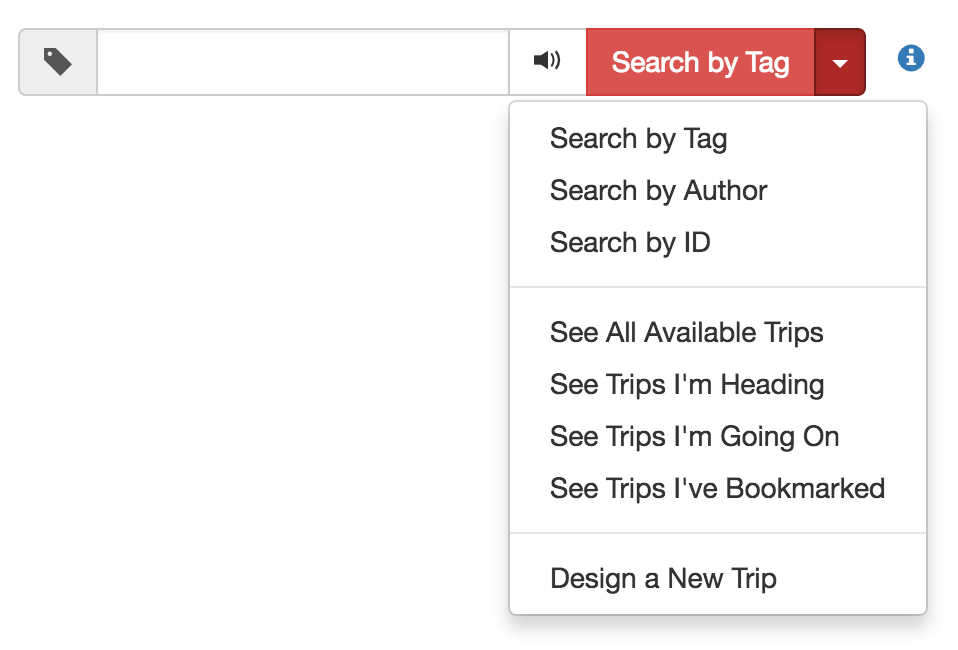
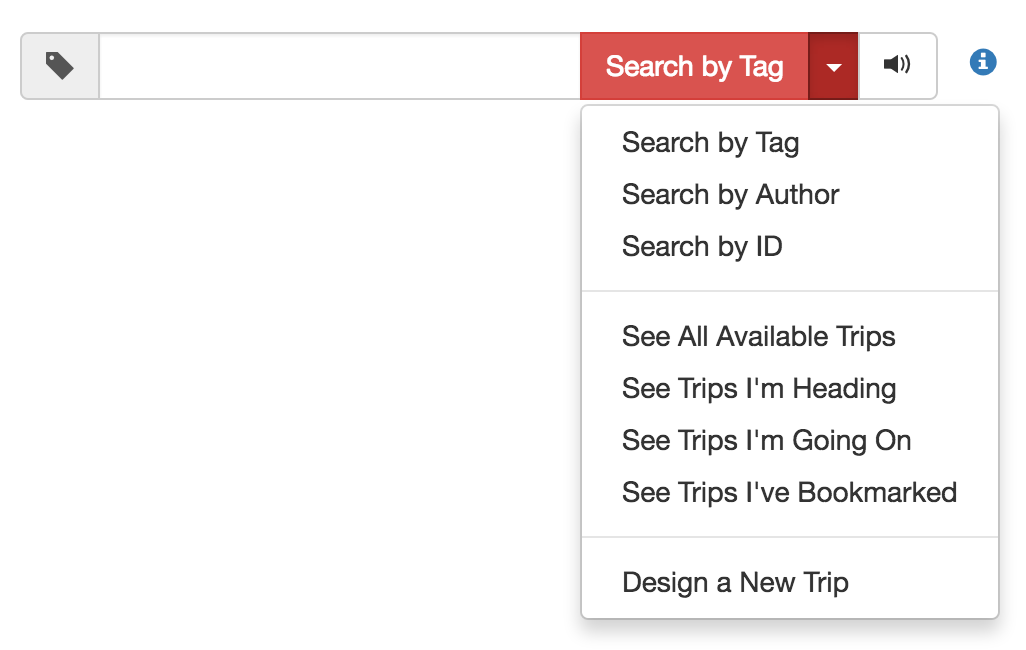
minor change

Changed region(s): [[0.0303, 0.0308, 0.9687, 0.9846], [0.9384, 0.0615, 0.9687, 0.1231]]

diff --git a/pages/groupCampSearch/client/groupCampSearch.html b/pages/groupCampSearch/client/groupCampSearch.html
@@ -24,7 +24,7 @@
           </button>
           <div class="input-group">
                <div class="input-group-addon"><span class="glyphicon glyphicon-{{getSearchGlyph}}" aria-hidden="true"></span></div>
-               <input type="text" class="js-searchField form-control" size=25>
+               <input type="text" class="js-searchField form-control" size=30>
                <span class="input-group-btn">
 
                     <div class="js-searchGroup btn-group">
